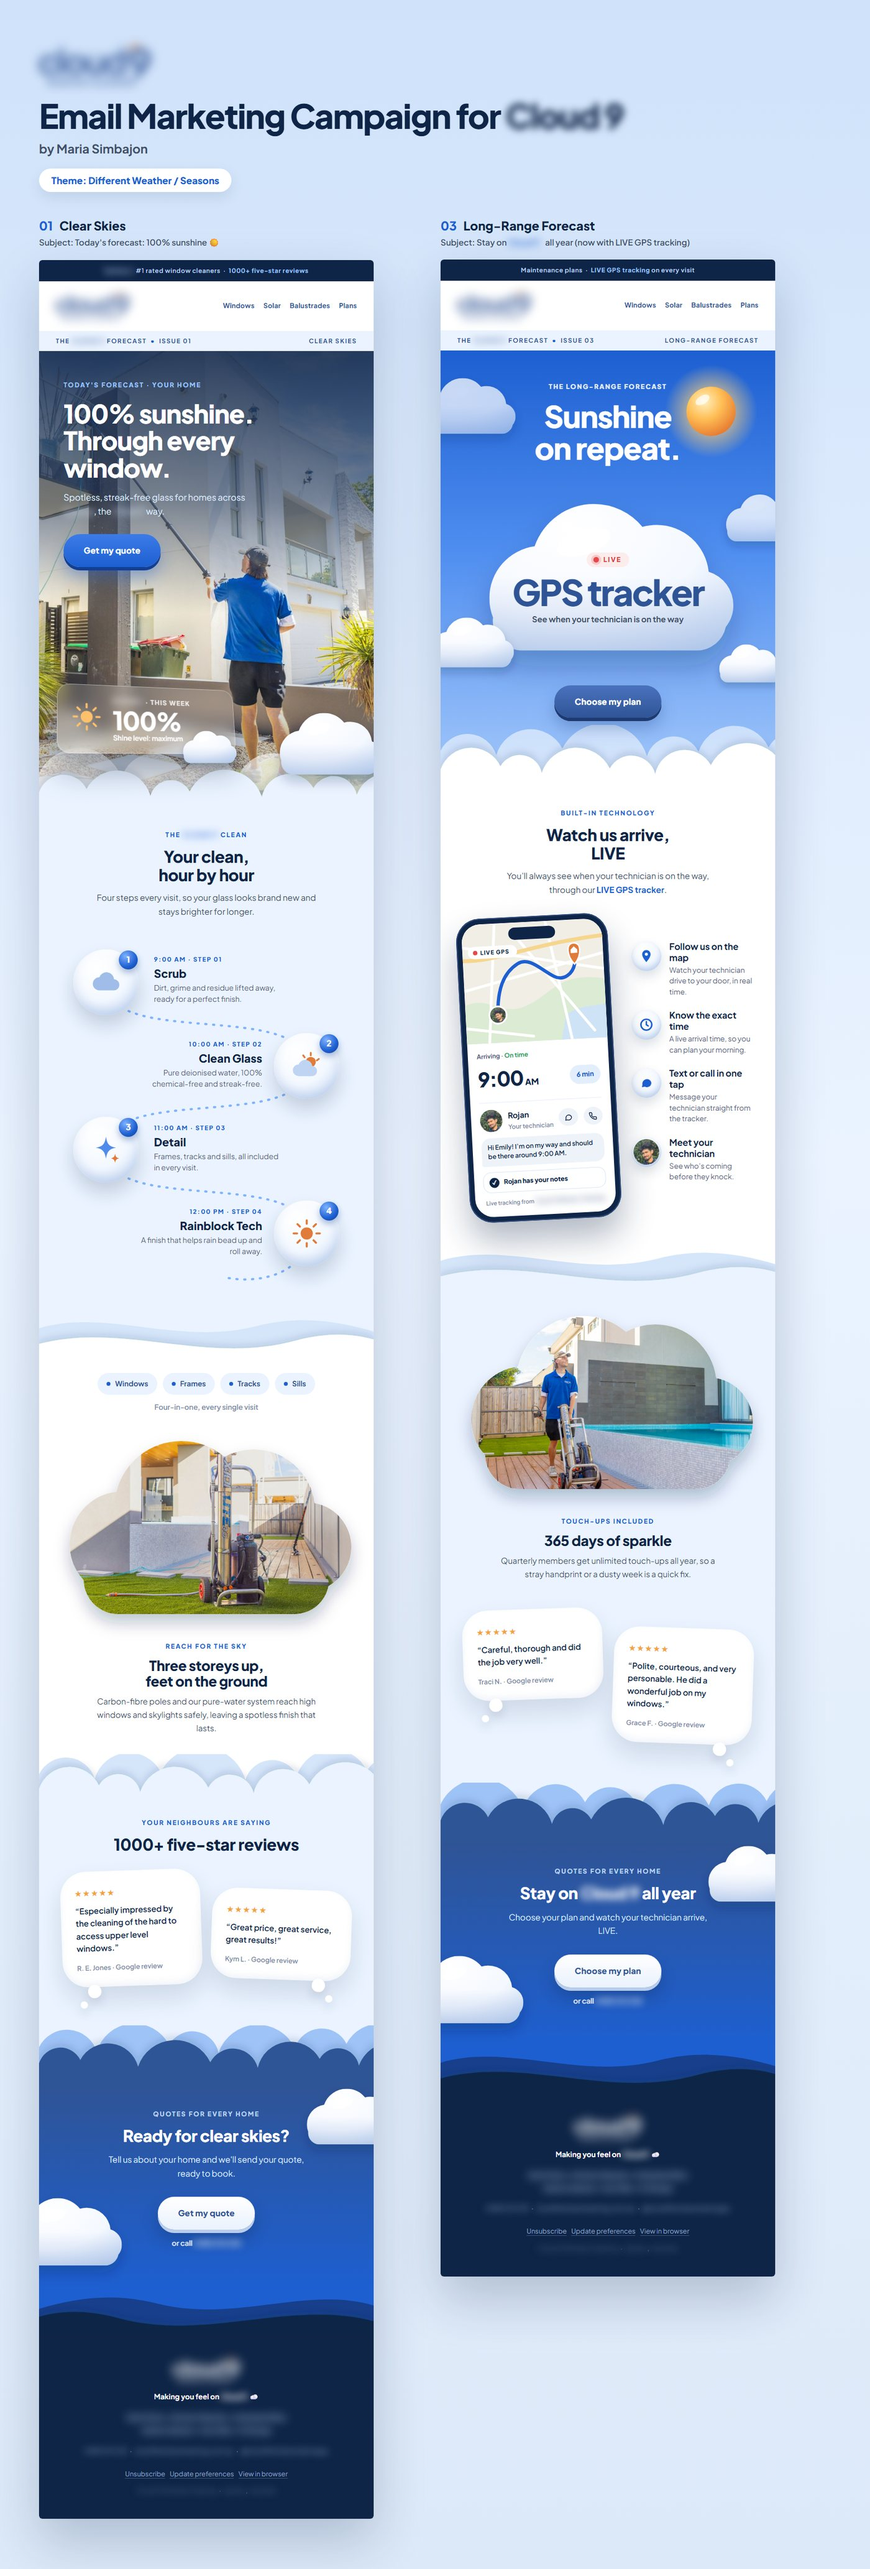
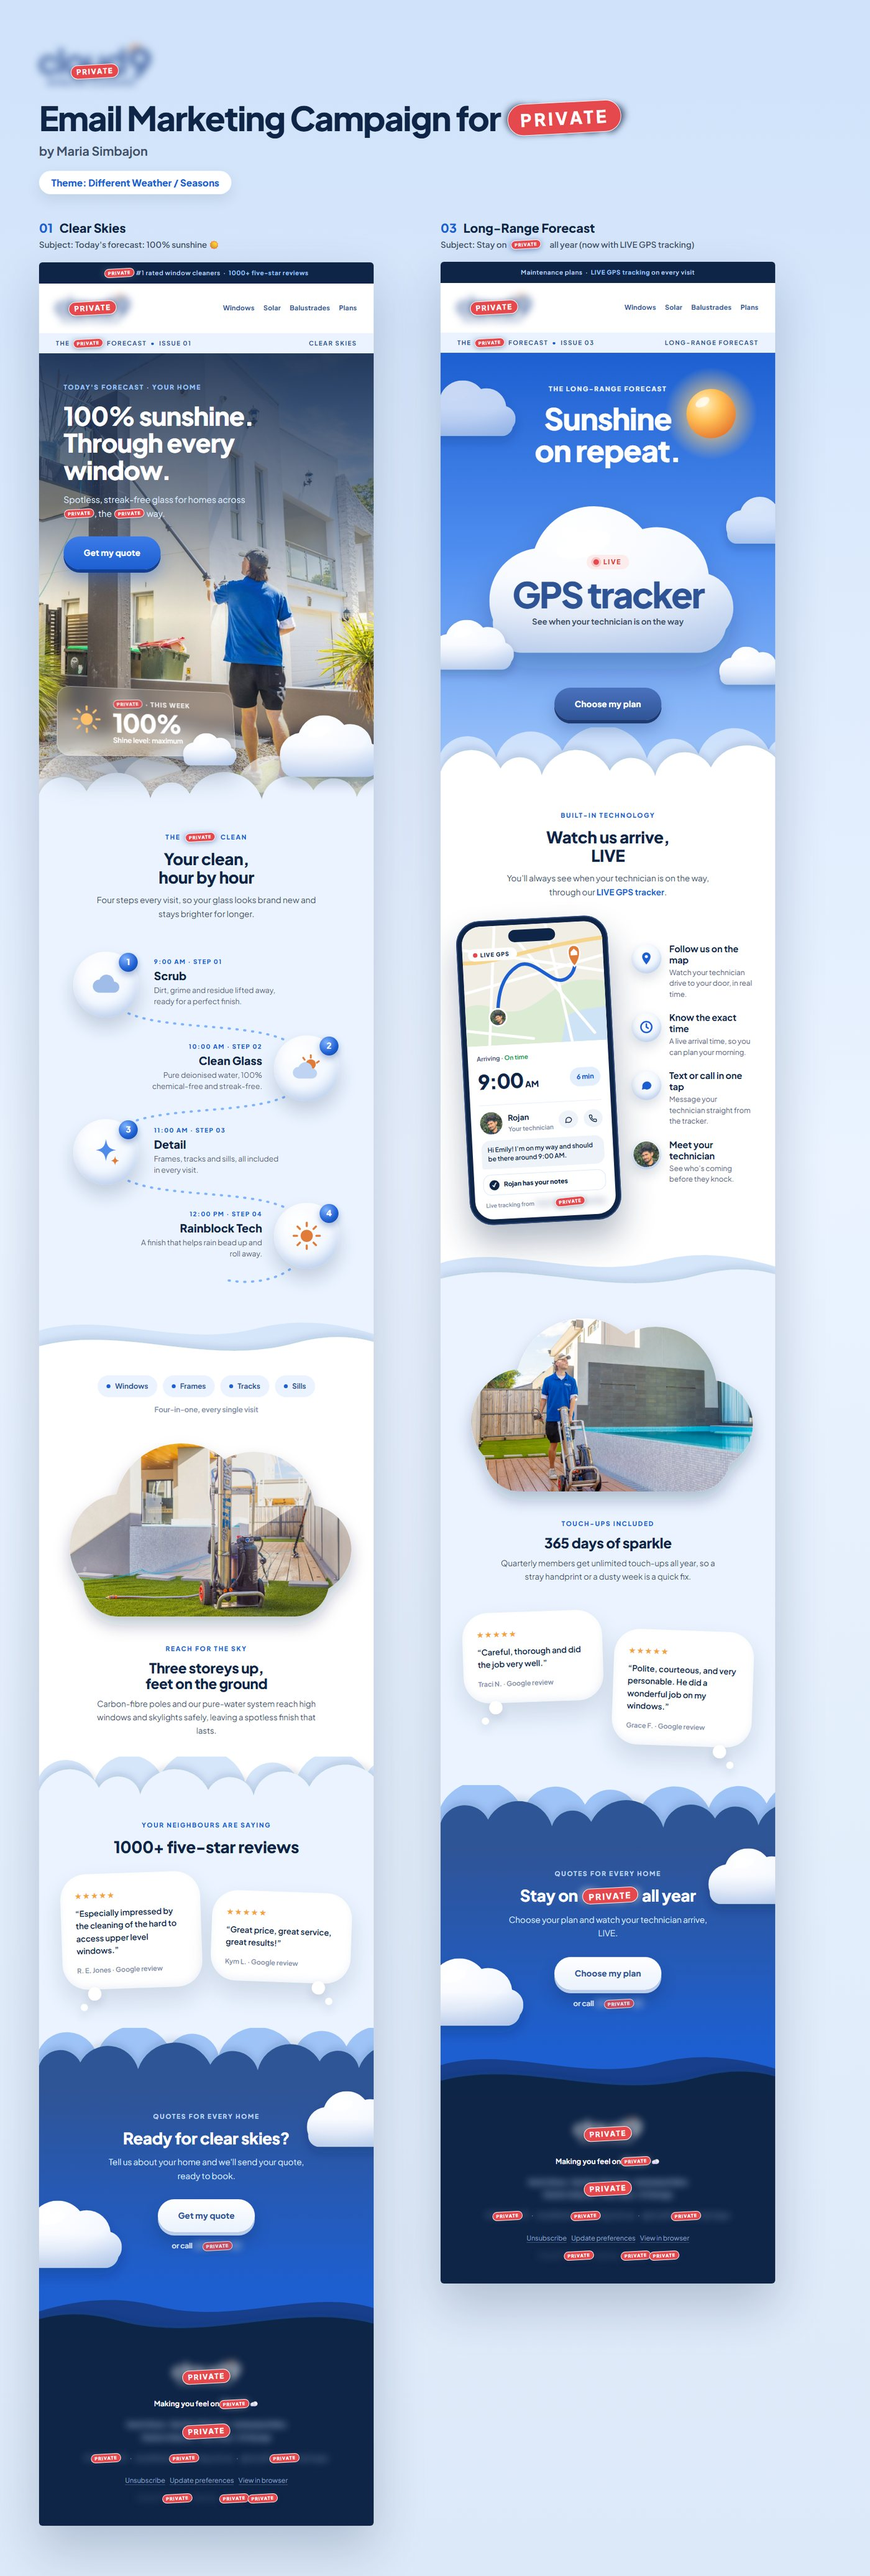
cv: Cloud 9 campaign titled Home Services (Real Client), PRIVATE tags on blurred parts

diff --git a/cv/jobs.js b/cv/jobs.js
@@ -2803,7 +2803,7 @@ window.RESUME_JOBS = {
       // Cloud 9 client campaign first; brand name, website, phone and areas blurred (Maria, 2026-11-10)
       emails: { campaignsPrepend: {
         items: [{ src: "email-c9-board.jpg" }, { src: "email-c9-1.jpg" }, { src: "email-c9-2.jpg" }],
-        campaigns: [{ title: "Email Marketing Campaign - Window Cleaning Company in Australia", note: "Made for a real client: a weather-themed series (brand details blurred)", accent: "#2F5496", tint: "#eaf3ff", chips: ["Client work", "Brand palette", "Service business"], start: 0,
+        campaigns: [{ title: "Email Marketing Campaign - Home Services", note: "Real client: a weather-themed series, private details blurred", accent: "#2F5496", tint: "#eaf3ff", chips: ["Real Client", "Brand palette", "Home services"], start: 0,
           alt: "Weather-themed email campaign for a window cleaning company, brand name blurred",
           emails: [ { name: "Clear Skies", subject: "Today's forecast: 100% sunshine" }, { name: "Long-Range Forecast", subject: "Stay with us all year (now with LIVE GPS tracking)" } ] }]
       } }

diff --git a/cv/index.html b/cv/index.html
@@ -640,8 +640,8 @@ footer{background:#031f26;color:rgba(255,255,255,.6);font-size:13px;padding:18px
 </div>
 <div class="toast" id="toast" role="status"></div>
 
-<script src="data.js?v=20261111a"></script>
-<script src="jobs.js?v=20261111a"></script>
+<script src="data.js?v=20261111b"></script>
+<script src="jobs.js?v=20261111b"></script>
 <script>
 (function(){
 if(window.__RESUME_OFF) return;
